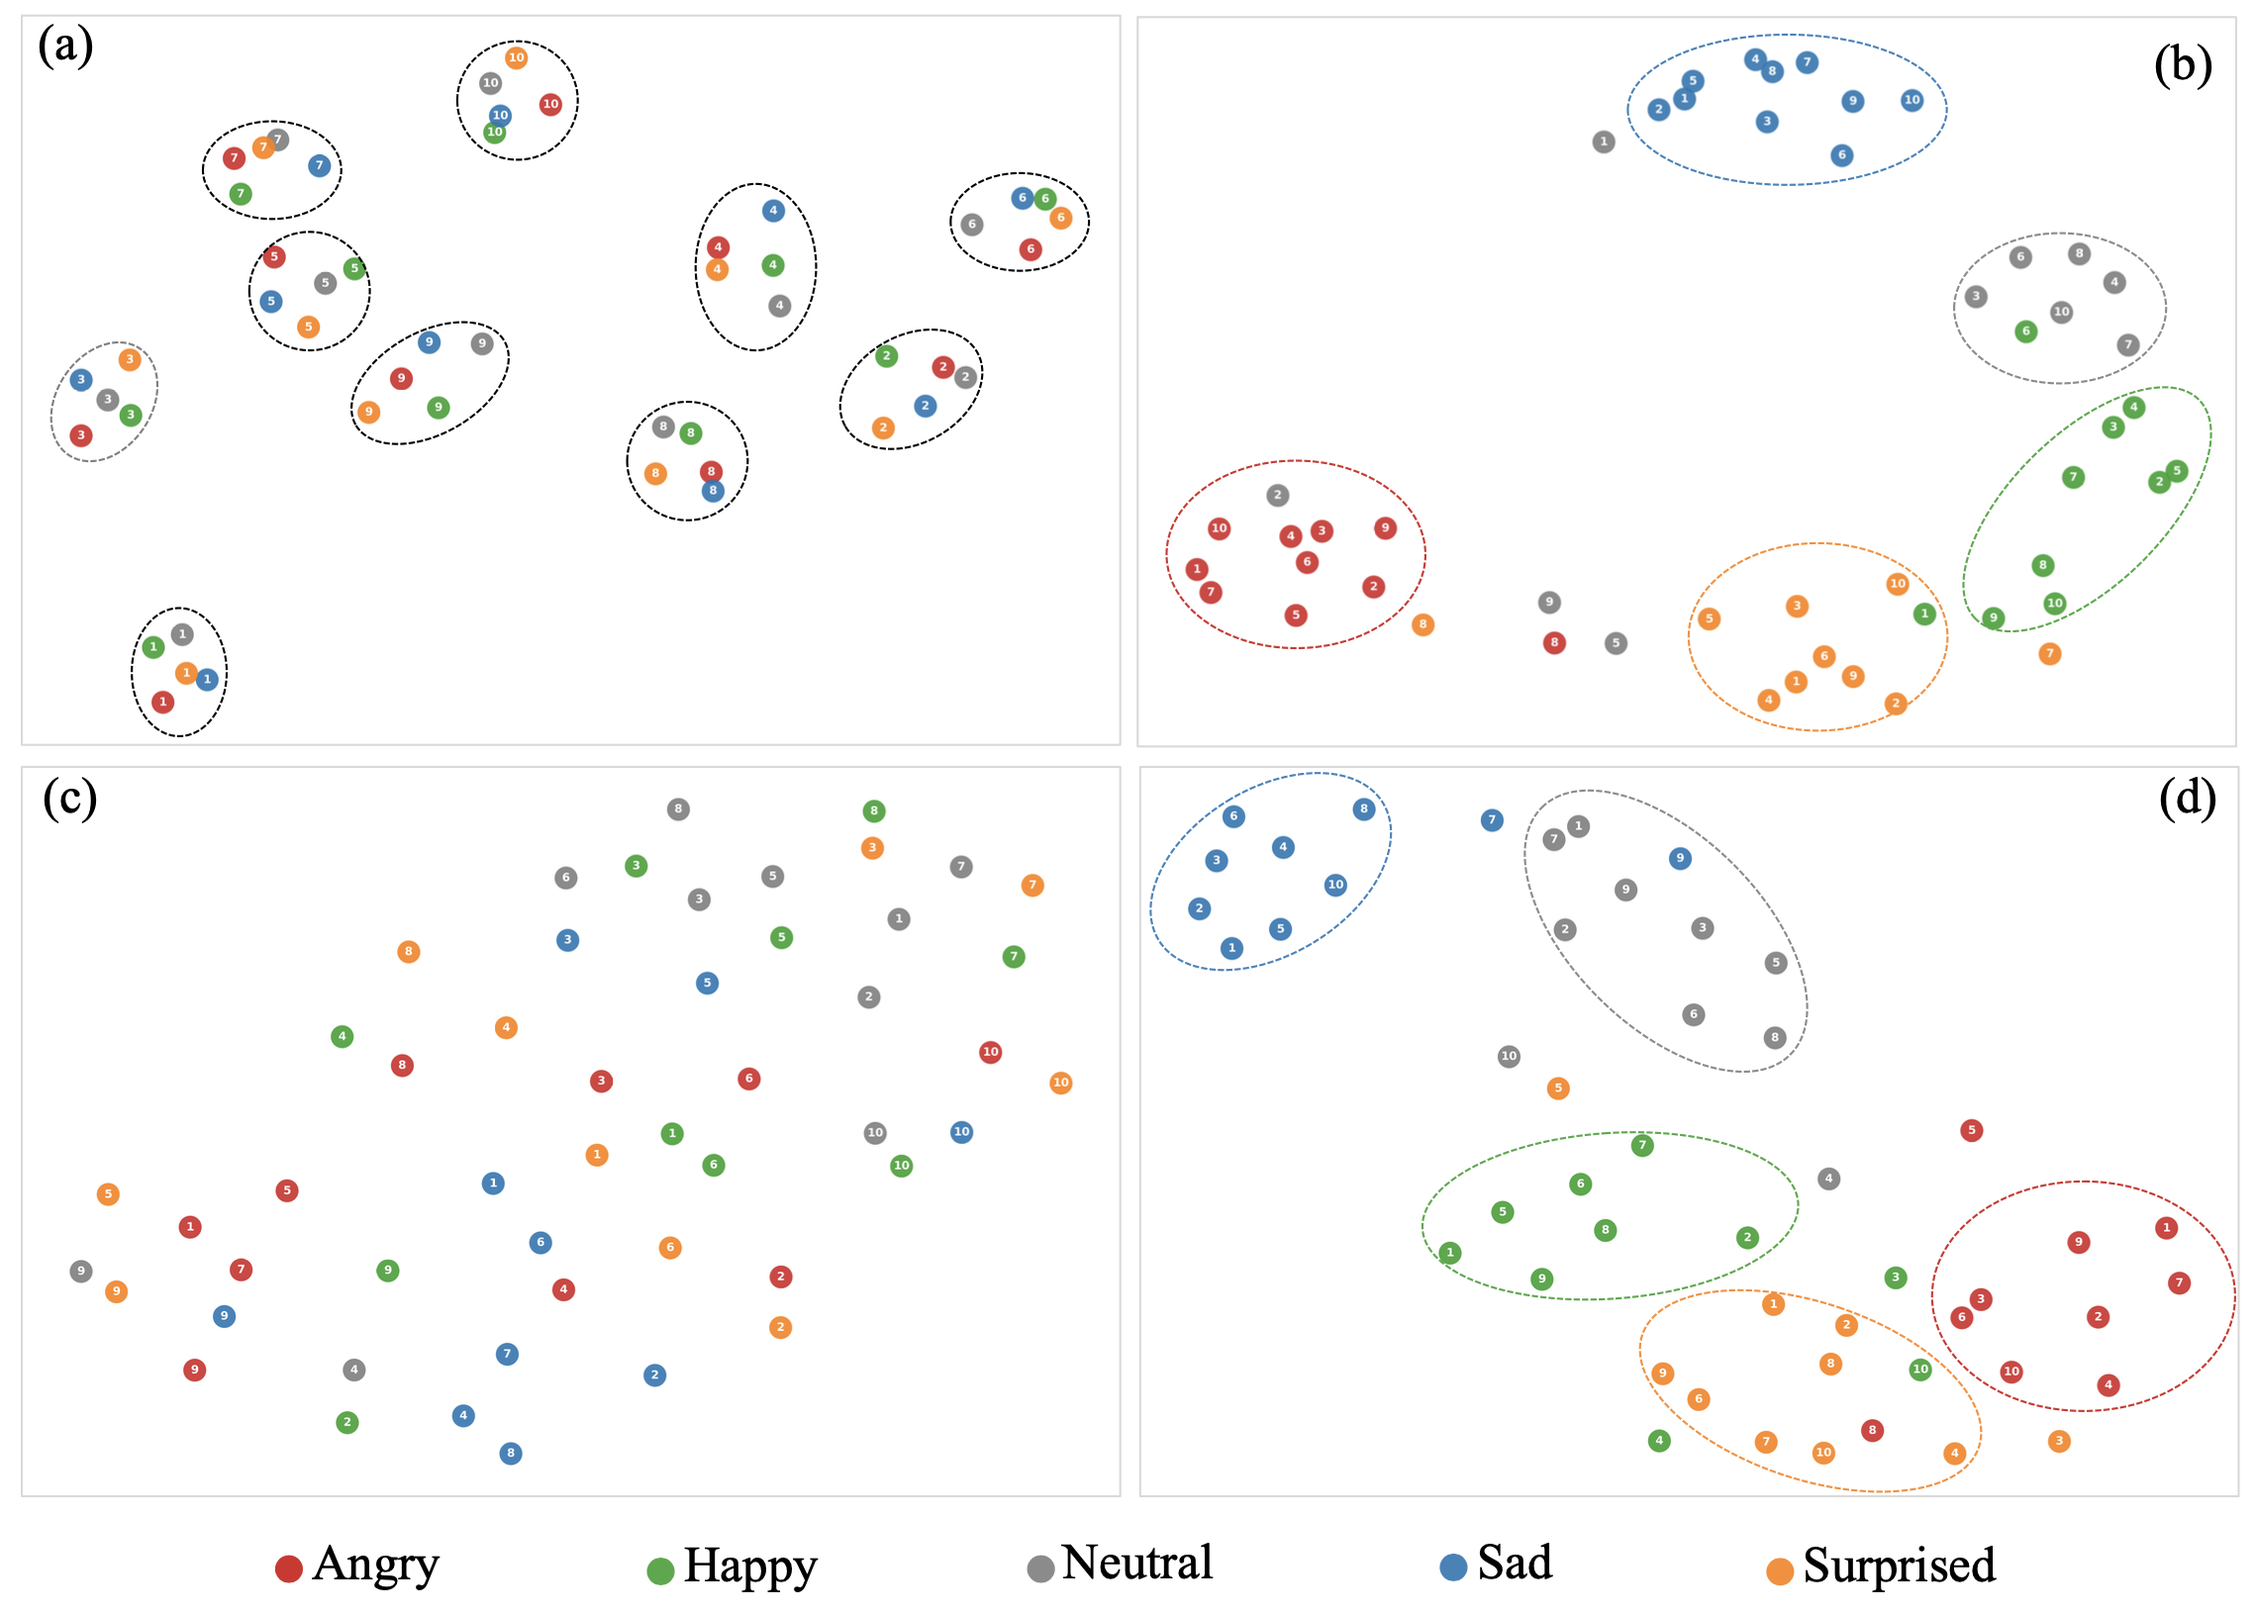
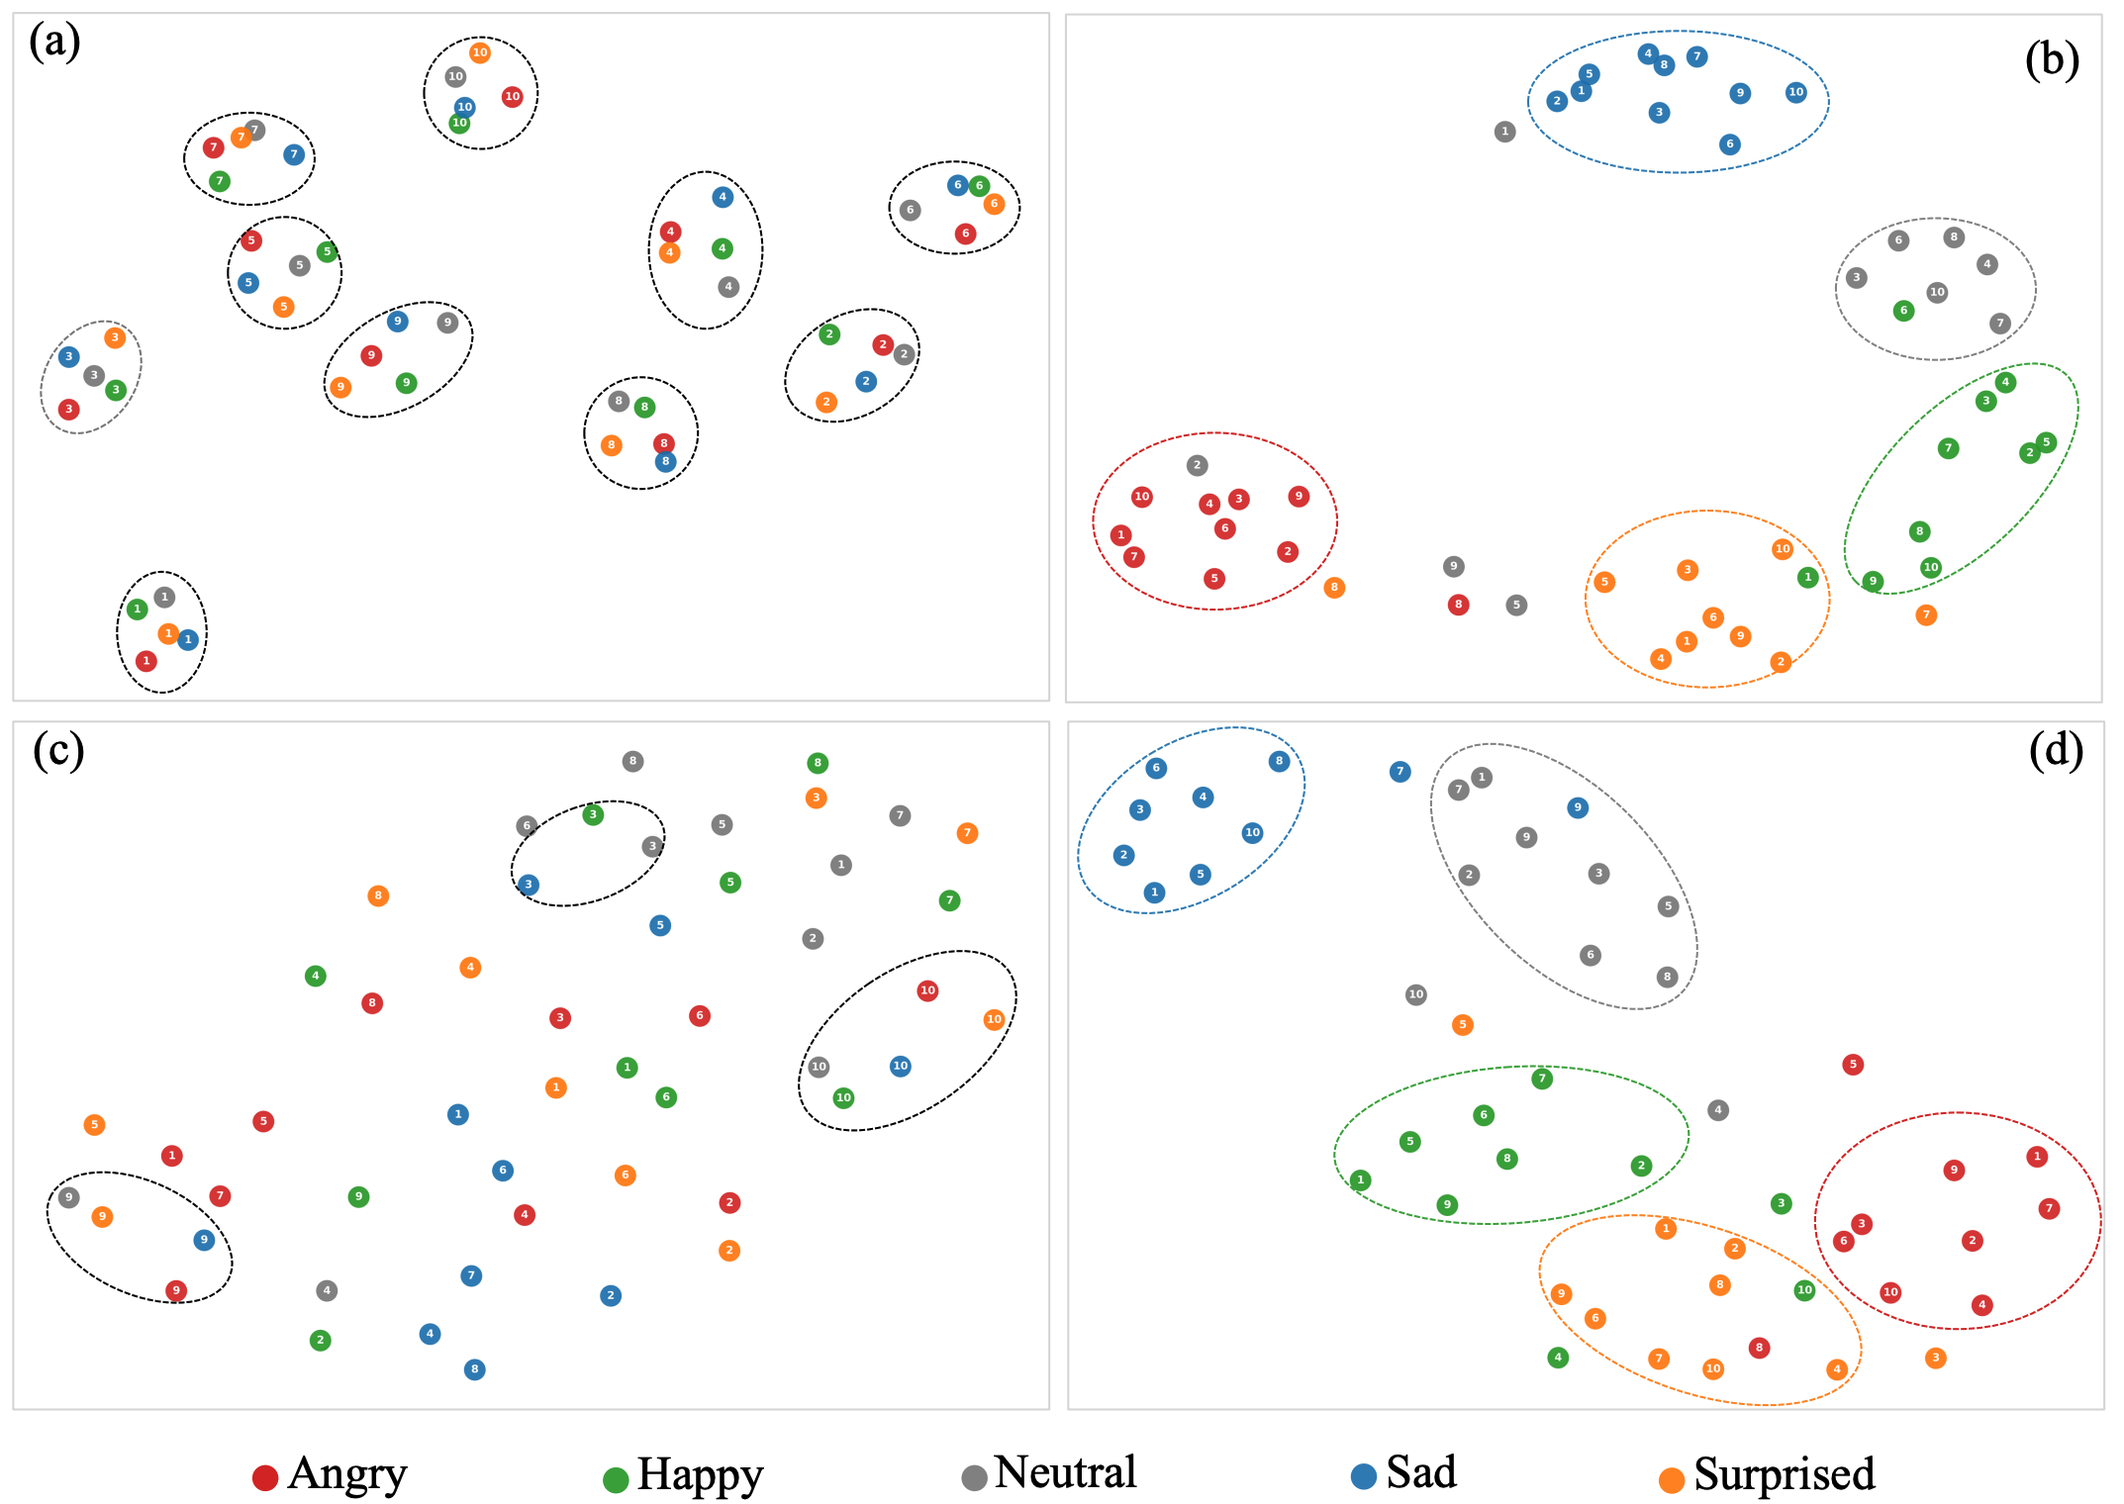
Modify the README file

diff --git a/imgs/_merge_figs.py b/imgs/_merge_figs.py
@@ -1,0 +1,41 @@
+"""Merge figure pairs into single equal-height images for a clean README layout.
+
+Each pair is resized to a common target height and concatenated horizontally
+with a white gap in between, so GitHub renders them perfectly aligned.
+"""
+import os
+from PIL import Image
+
+HERE = os.path.dirname(os.path.abspath(__file__))
+
+TARGET_H = 900          # common height (px) each figure is scaled to
+GAP = 60                # white gap (px) between the two figures
+PAD = 24                # outer white padding (px)
+BG = (255, 255, 255)
+
+
+def merge_pair(left_name, right_name, out_name):
+    left = Image.open(os.path.join(HERE, left_name)).convert("RGB")
+    right = Image.open(os.path.join(HERE, right_name)).convert("RGB")
+
+    def scale_to_h(im, h):
+        w = round(im.width * h / im.height)
+        return im.resize((w, h), Image.LANCZOS)
+
+    left = scale_to_h(left, TARGET_H)
+    right = scale_to_h(right, TARGET_H)
+
+    total_w = PAD + left.width + GAP + right.width + PAD
+    total_h = PAD + TARGET_H + PAD
+    canvas = Image.new("RGB", (total_w, total_h), BG)
+    canvas.paste(left, (PAD, PAD))
+    canvas.paste(right, (PAD + left.width + GAP, PAD))
+
+    out_path = os.path.join(HERE, out_name)
+    canvas.save(out_path)
+    print(f"saved {out_name}  ({total_w}x{total_h})")
+
+
+if __name__ == "__main__":
+    merge_pair("Fig1.png", "Fig2.png", "row1_fig1_fig2.png")
+    merge_pair("Fig3.png", "Fig4.png", "row2_fig3_fig4.png")

diff --git a/README.md b/README.md
@@ -40,22 +40,27 @@ characteristics of emotional speech.
 
 <div align="center">
 
-|  |  |
-|:--:|:--:|
-<img src="imgs/Fig1.png" width="760"/> 
-**Fig. 1** — Emotion representation capability comparison 
+<!-- Fig.1 & Fig.2 : equal-height merged image (rendered as one, always aligned) -->
+<img src="imgs/row1_fig1_fig2.png" width="960"/>
 
-<img src="imgs/Fig2.png" width="760"/>
+<table width="960">
+  <tr>
+    <td valign="top" align="center" width="50%"><sub><b>Fig. 1</b> — Embedding space visualizations on the ESD dataset. (a, b) Single speaker with 10 text contents across 5 emotions; (c, d) 10 speakers with a single text content across 5 emotions. Numbers denote text IDs in (a, b) and speaker IDs in (c, d). Panels (a, c) show emotion2vec and (b, d) show RECDSER. While emotion2vec is dominated by semantics and speaker traits, RECDSER forms distinct emotion clusters with minimal interference from text or speaker timbre.</sub></td>
+    <td valign="top" align="center" width="50%"><sub><b>Fig. 2</b> — Causal deconfounding framework (structural causal model + backdoor adjustment)</sub></td>
+  </tr>
+</table>
 
-**Fig. 2** — Causal deconfounding framework (structural causal model + backdoor adjustment)
+<br/>
 
-<img src="imgs/Fig3.png" width="760"/>
+<!-- Fig.3 & Fig.4 : equal-height merged image -->
+<img src="imgs/row2_fig3_fig4.png" width="960"/>
 
-**Fig. 3** — SynthEmoVoice parallel emotional-speech synthesis pipeline
-
-<img src="imgs/Fig4.png" width="760"/>
-
-**Fig. 4** — Time–frequency dual-domain SER model architecture
+<table width="960">
+  <tr>
+    <td valign="top" align="center" width="56%"><sub><b>Fig. 3</b> — SynthEmoVoice parallel emotional-speech synthesis pipeline</sub></td>
+    <td valign="top" align="center" width="44%"><sub><b>Fig. 4</b> — Time–frequency dual-domain SER model architecture</sub></td>
+  </tr>
+</table>
 
 </div>
 
